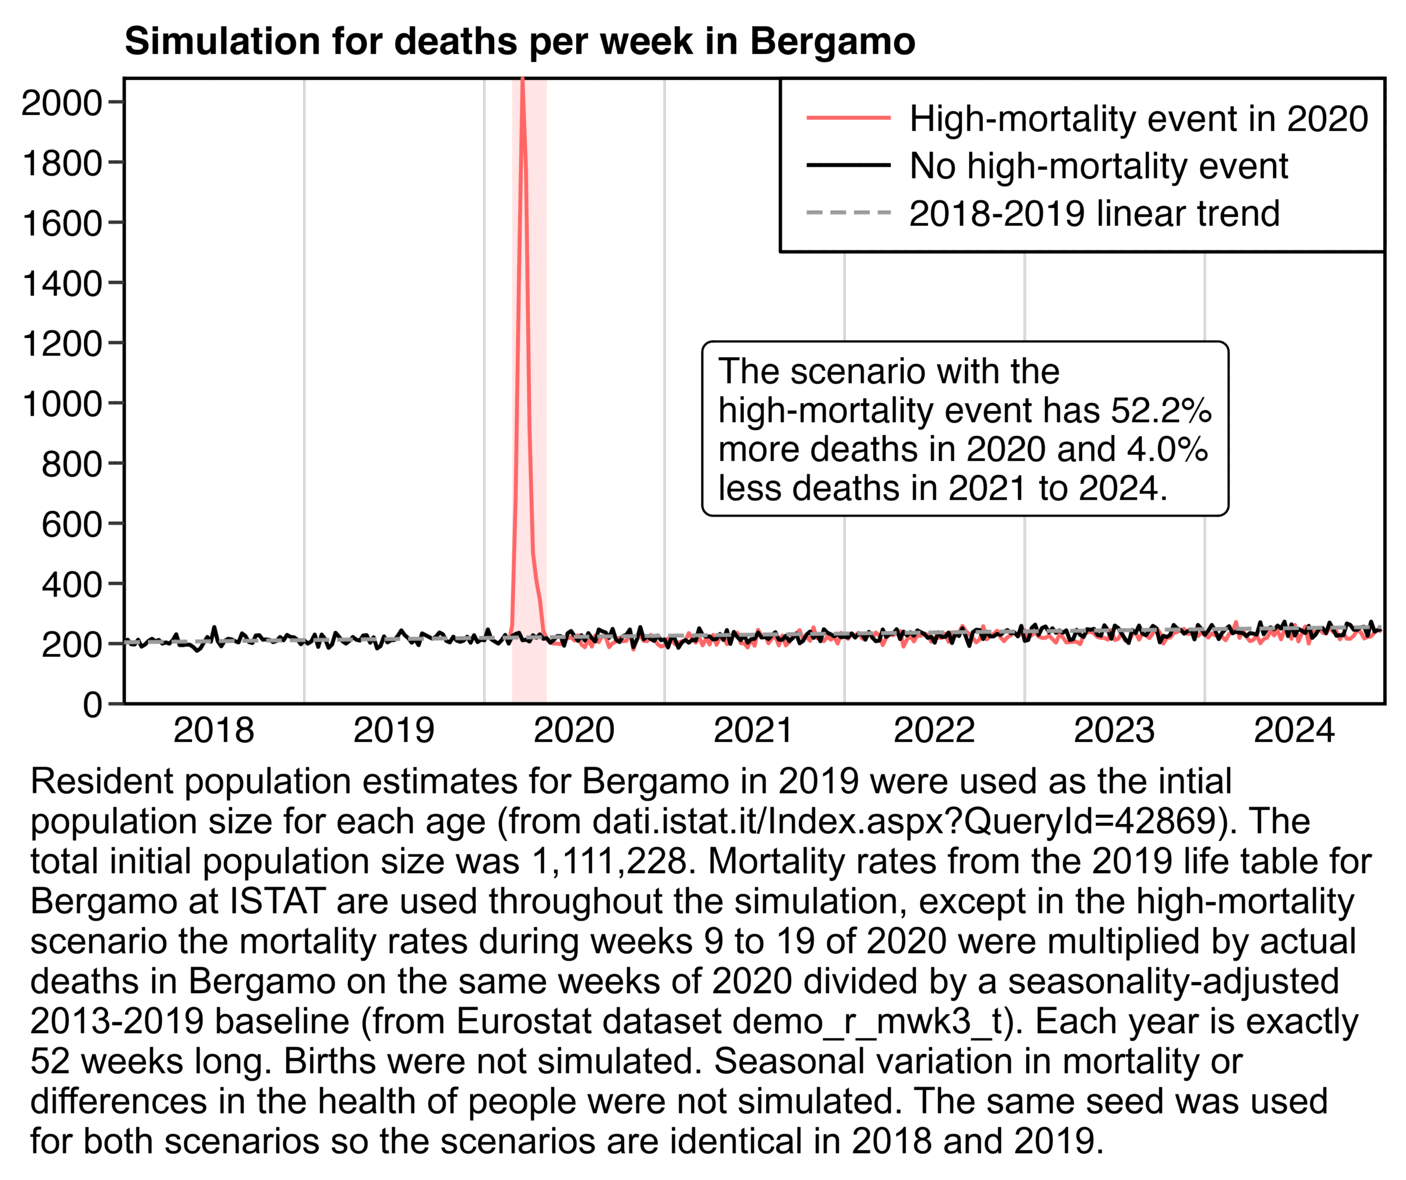
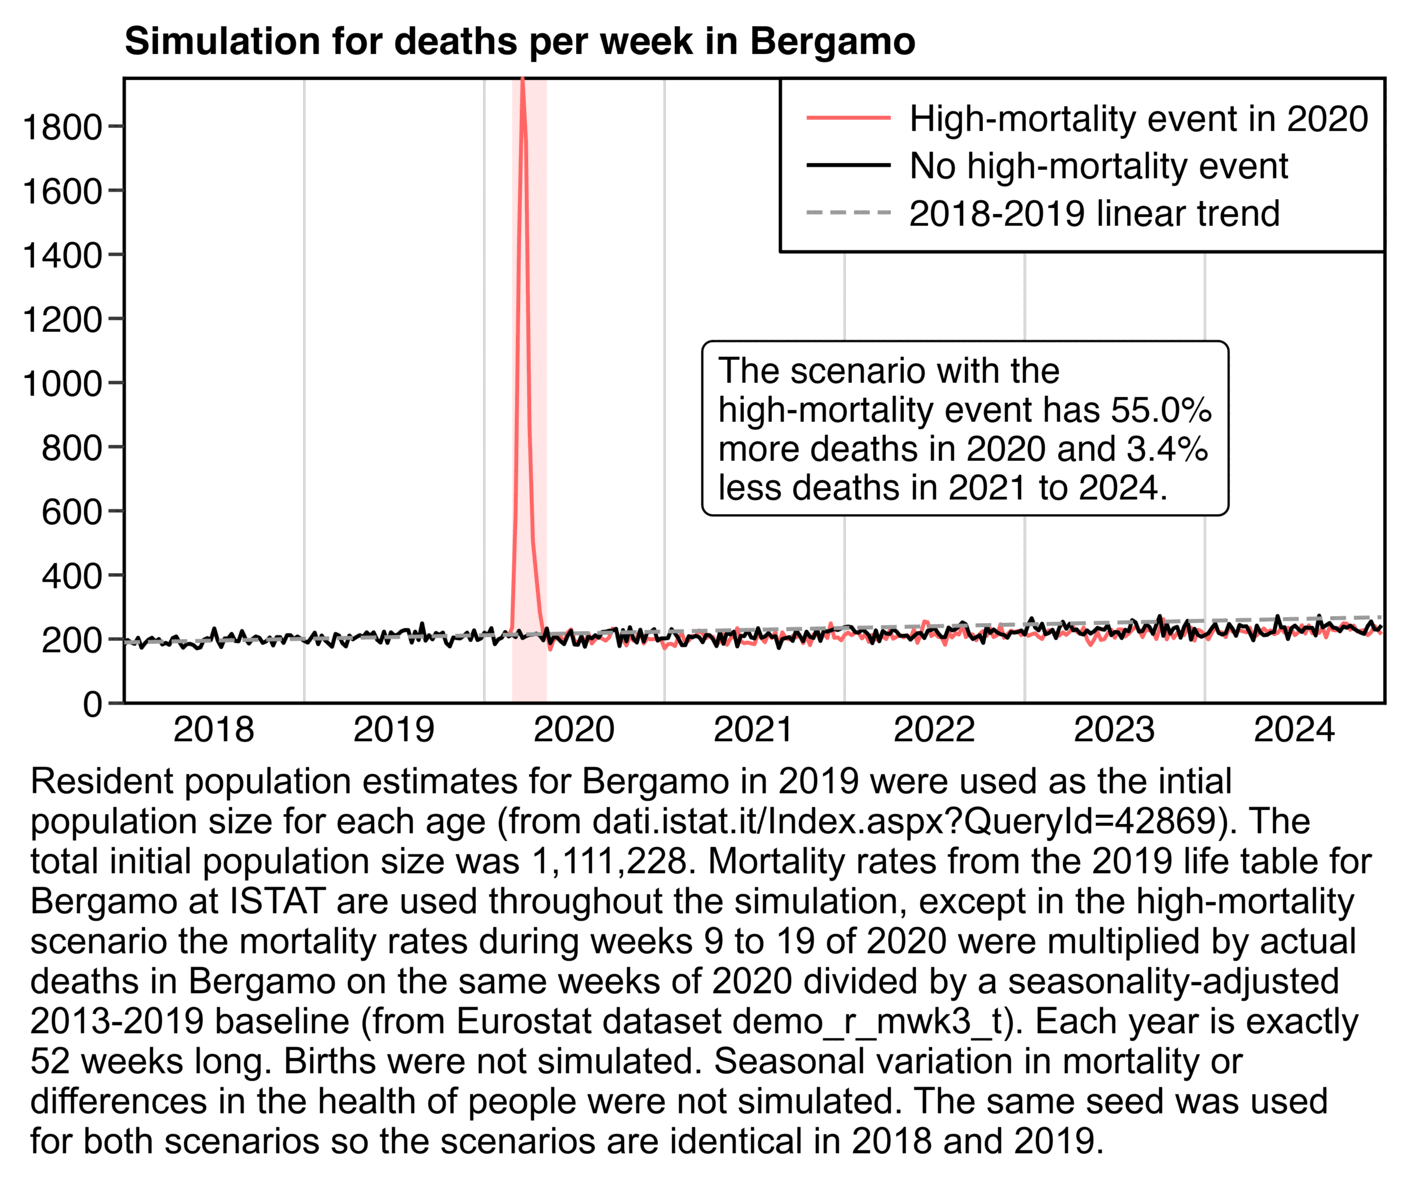
a

diff --git a/nopandemic2.html b/nopandemic2.html
@@ -136,7 +136,7 @@ t=na.omit(data.table(readxl::read_excel(&quot;Table01.xlsx&quot;,skip=2)))
 coviddead=c(363,116,46,41,39,30,38,32,33,47,40,35,41,56,51,97,88,130,162,210,255,288,367,407,499,530,620,707,819,979,1112,1255,1329,1441,1607,1703,1850,2066,2237,2502,2713,2987,3253,3486,3942,4197,4610,4912,5686,6278,7075,7365,8017,8227,8942,9822,11084,11748,12866,14070,15174,16061,17259,18347,19229,20037,20443,20874,22012,22623,23586,24446,25783,27417,27760,26024,26237,27531,28188,27690,27437,27093,27200,27223,26753,26849,26190,25121,24827,24104,22756,21336,19309,17787,15069,12656,10416,8337,6321,4626,8773)
 
 weighted.mean(t$ex,coviddead) # 14.50457</pre>
-<p>Next I made the simulation below using data from ISTAT and Eurostat: <a href="http://dati.istat.it/Index.aspx?QueryId=42869&lang=en">http://dati.istat.it/Index.aspx?QueryId=42869&amp;lang=en</a>, <a href="https://ec.europa.eu/eurostat/api/dissemination/sdmx/2.1/data/demo_r_mwk3_t?format=TSV">https://ec.europa.eu/eurostat/api/dissemination/sdmx/2.1/data/demo_r_mwk3_t?format=TSV</a>. I used similar methodology as USMortality here: <a href="https://x.com/USMortality/status/1861154850102247849">https://x.com/USMortality/status/1861154850102247849</a>. Except unlike USMortality, I didn't simulate different people having different levels of health. When I simply assigned a fixed health multiplier to each person, the people with poor health tended to die at the start of the simulation which artificially elevated deaths at the start of the simulation compared to the end of the simulation. So I should've also modeled the health status of people getting worse over time so that over time new people would've gradually entered the verge of death, but it seemed too difficult to model realistically. But anyway, here in the red scenario where I simulated a spike in excess deaths in spring 2020, I got only about 4% less deaths in 2021-2024 than in the black scenario without the spike:</p>
+<p>Next I made the simulation below using data from ISTAT and Eurostat: <a href="http://dati.istat.it/Index.aspx?QueryId=42869&lang=en">http://dati.istat.it/Index.aspx?QueryId=42869&amp;lang=en</a>, <a href="https://ec.europa.eu/eurostat/api/dissemination/sdmx/2.1/data/demo_r_mwk3_t?format=TSV">https://ec.europa.eu/eurostat/api/dissemination/sdmx/2.1/data/demo_r_mwk3_t?format=TSV</a>. I used similar methodology as USMortality here: <a href="https://x.com/USMortality/status/1861154850102247849">https://x.com/USMortality/status/1861154850102247849</a>. Except unlike USMortality, I didn't simulate different people having different levels of health. When I simply assigned a fixed health multiplier to each person, the people with poor health tended to die at the start of the simulation which artificially elevated deaths at the start of the simulation compared to the end of the simulation. So I should've also modeled the health status of people getting worse over time so that over time new people would've gradually entered the verge of death, but it seemed too difficult to model realistically. But anyway, here in the red scenario where I simulated a spike in excess deaths in spring 2020, I got only about 3% less deaths in 2021-2024 than in the black scenario without the spike:</p>
 <div class="width6">
 <img src="i/np-bergamo-sim-1.png">
 </div>
@@ -156,7 +156,7 @@ mult=d[year==2020&amp;week%in%9:19,dead/(trend+weekly)]
 pop=c(7406,7625,7880,7909,8570,8867,9439,9725,9850,10350,10545,10991,11427,11617,11950,11864,11816,11905,11706,11809,11864,11769,11942,12225,11878,12078,12004,11527,11715,11477,11525,11993,11984,12231,12064,12631,12406,12205,12752,13256,13417,13627,14005,14351,14612,15773,16026,16577,17824,18126,18084,18163,17907,18161,18285,18240,18270,18805,18653,18690,17266,16377,15528,15325,14804,14145,13294,13184,12725,12372,12000,11680,11546,12114,11851,11748,10684,10850,8014,8288,7876,7855,7494,7977,7060,6379,5353,4372,4140,3445,2908,2471,2016,1701,1185,908,660,456,294,229,281)
 
 life=fread(&quot;http://sars2.net/f/bergamolifetable.csv&quot;)
-cmr=life[,sum(deaths)/sum(survivors),.(age=pmin(age,100))]$V1/52
+cmr=life[,sum(deaths)/(sum(deaths)+sum(survivors)),.(age=pmin(age,100))]$V1/52
 
 simweeks=52*7
 weekmult=rep(1,simweeks);weekmult[113:123]=mult
@@ -188,7 +188,7 @@ sum2=sim[week&gt;156,colSums(.SD)]
 note=stringr::str_wrap(sprintf(&quot;The scenario with the high-mortality event has %.1f%% more deaths in 2020 and %.1f%% less deaths in 2021 to 2024.&quot;,(sum[2]/sum[3]-1)*100,(sum2[3]/sum2[2]-1)*100),32)
 
 xstart=1;xend=simweeks+1;xbreak=seq(xstart,xend,26);xlab=c(rbind(&quot;&quot;,2018:2024),&quot;&quot;)
-ybreak=pretty(c(0,p$y),8);ystart=0;yend=max(p$y)+.02
+ybreak=pretty(c(0,p$y),8);ystart=0;yend=max(p$y)
 
 ggplot(p,aes(x,y))+
 geom_rect(xmin=113,xmax=123,ymin=0,ymax=yend,fill=&quot;#ffe5e5&quot;)+
